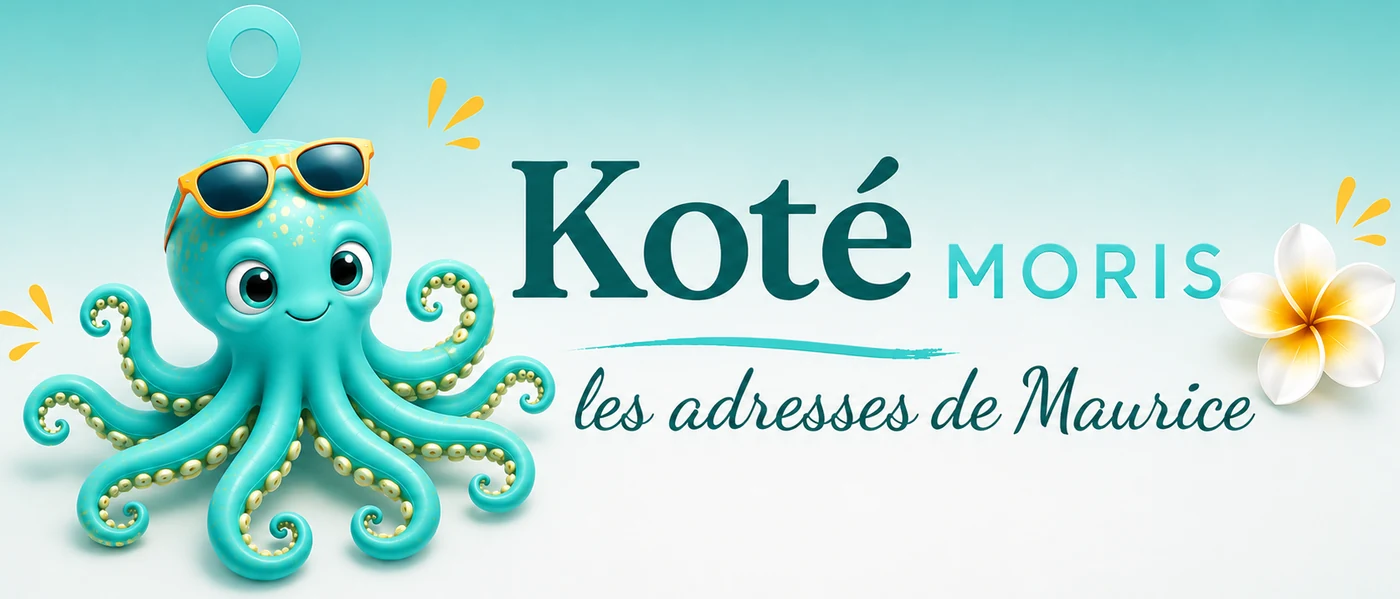
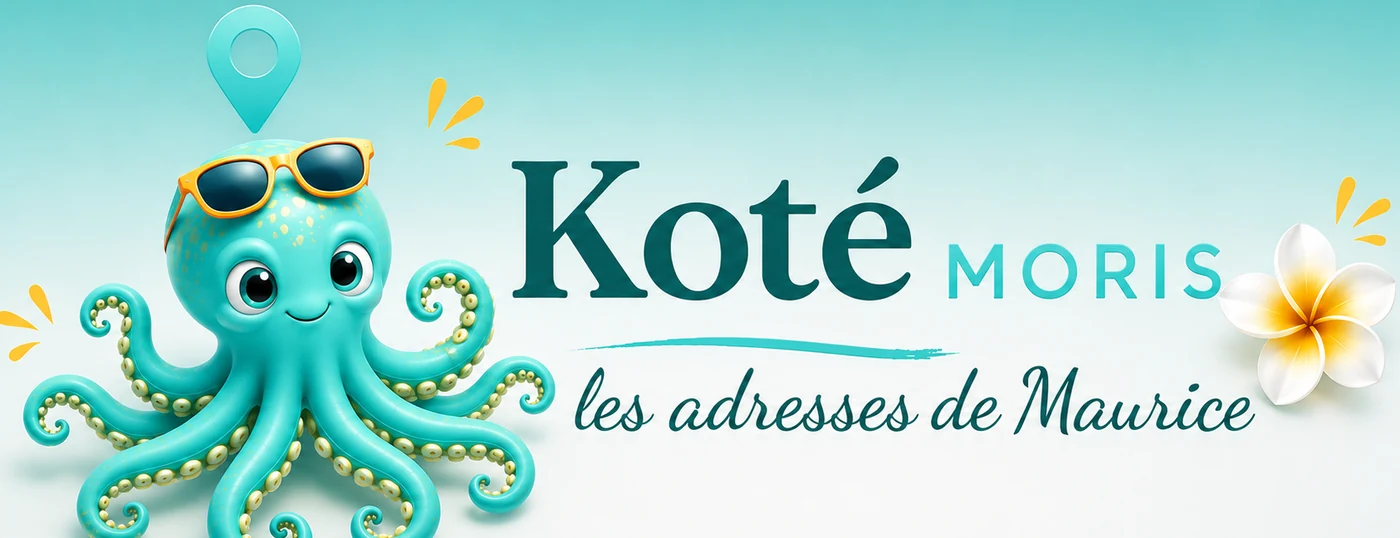
Bandeau plus compact, fond turquoise pâle, bas de nav éclairci
Poulpe recadré (tentacules raccourcies) pour un bandeau moins imposant,
header non sticky, fond général en turquoise très pâle au lieu du crème,
et barre de navigation du bas en turquoise clair avec texte/icônes foncés
pour rester lisible.

diff --git a/web/app/DirectoryClient.tsx b/web/app/DirectoryClient.tsx
@@ -1075,16 +1075,16 @@ export default function DirectoryClient({ businesses }: { businesses: Business[]
   return (
     <div className="app min-h-screen flex flex-col">
       {/* En-tête « Lagon » : bandeau clair poulpe, logo clair + recherche */}
-      <header className="sticky top-0 z-30 bg-surface border-b border-border shadow-sm">
+      <header className="bg-surface border-b border-border shadow-sm">
         <button
           onClick={goHome}
           aria-label="Retour à l'accueil"
-          className="block w-full sm:max-w-[420px] mx-auto aspect-[1686/722] hover:opacity-90 active:scale-[.98] transition"
+          className="block w-full sm:max-w-[420px] mx-auto aspect-[1686/648] hover:opacity-90 active:scale-[.98] transition"
         >
           <Logo light />
         </button>
-        <div className="max-w-[1400px] mx-auto px-5 pb-2.5 flex flex-col gap-2.5">
-          {showHeaderSearch && (
+        {showHeaderSearch && (
+          <div className="max-w-[1400px] mx-auto px-5 pb-2.5">
             <div className="max-w-[640px]">
               <SearchInput
                 value={query}
@@ -1092,8 +1092,8 @@ export default function DirectoryClient({ businesses }: { businesses: Business[]
                 placeholder="Rechercher une activité, un lieu, un nom…"
               />
             </div>
-          )}
-        </div>
+          </div>
+        )}
       </header>
 
       <div className="flex-1 max-w-[1400px] w-full mx-auto lg:flex min-h-0">

diff --git a/web/app/globals.css b/web/app/globals.css
@@ -1,23 +1,23 @@
 @import "tailwindcss";
 
 :root {
-  /* Direction « KOTÉ MORIS » — teal marin, accent jaune soleil, neutres crème. */
-  --bg: #ede6d5;
+  /* Direction « KOTÉ MORIS » — teal marin, accent jaune soleil, neutres turquoise pâle. */
+  --bg: #e6f3f1;
   --surface: #ffffff;
-  --surface-2: #f7f1e3;
+  --surface-2: #f1f9f8;
   --ink: #123a3f;
   --muted: #5f7377;
-  --border: #e2dbc9;
+  --border: #d6e9e6;
   --primary: #087e8b;
   --primary-deep: #066470;
   --primary-tint: #d7ede9;
   --accent: #f4c95d;
   --on-accent: #133c40;
 
-  /* Bandeau du bas (nav) : turquoise assorti au nouveau logo poulpe, texte clair. */
-  --band: #137986;
-  --band-deep: #0e5862;
-  --on-band: #ffffff;
+  /* Bandeau du bas (nav) : turquoise clair assorti au nouveau logo poulpe, texte foncé. */
+  --band: #2bacb8;
+  --band-deep: #1f8f99;
+  --on-band: #0b3a3e;
 
   /* Rayon historique (conservé pour compat). */
   --radius: 12px;
